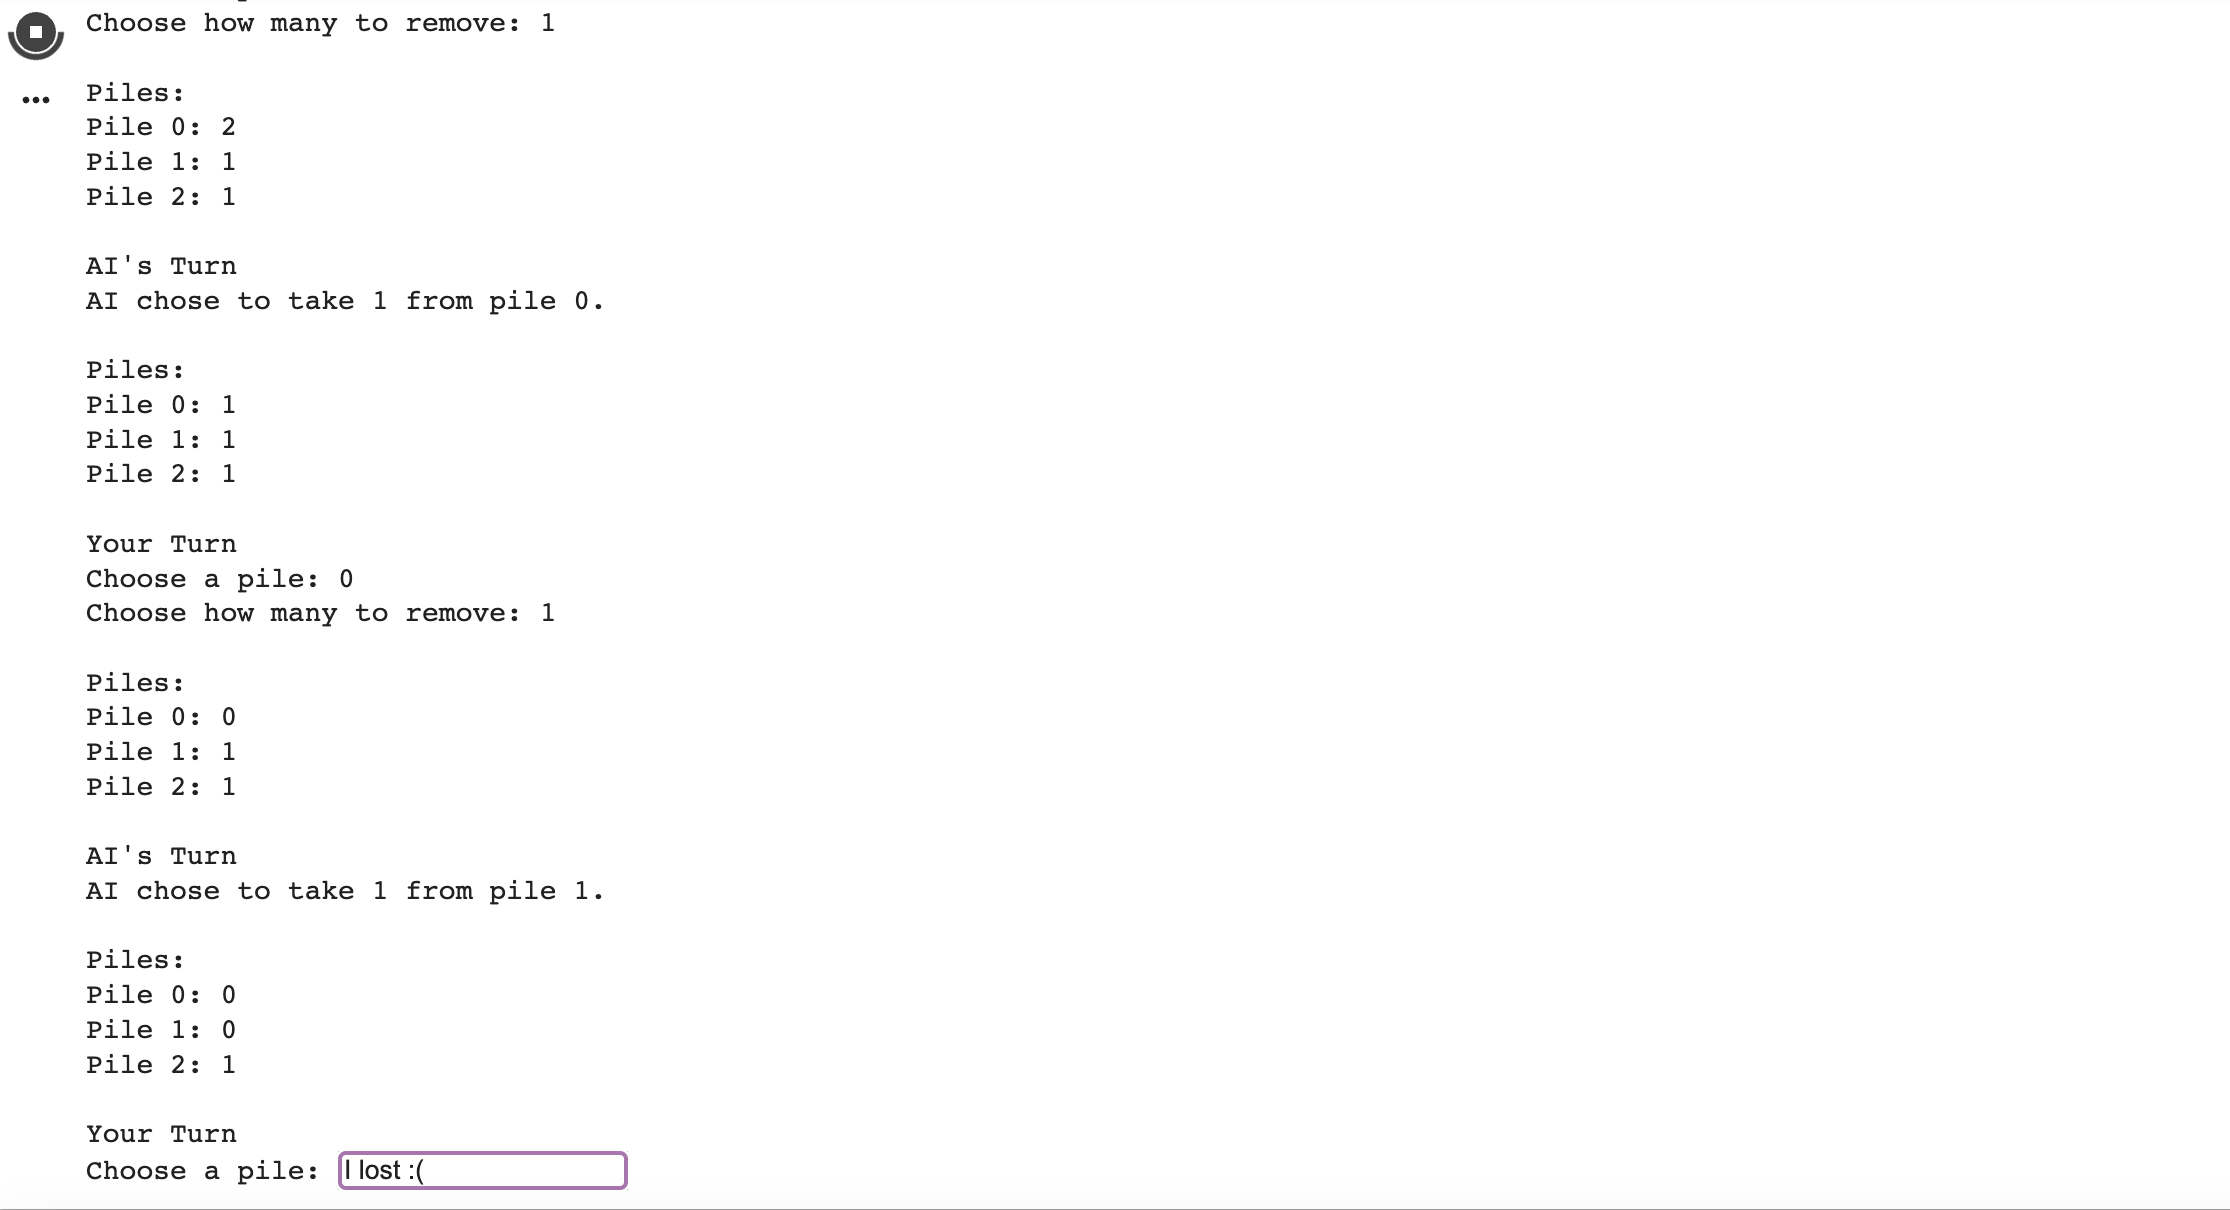
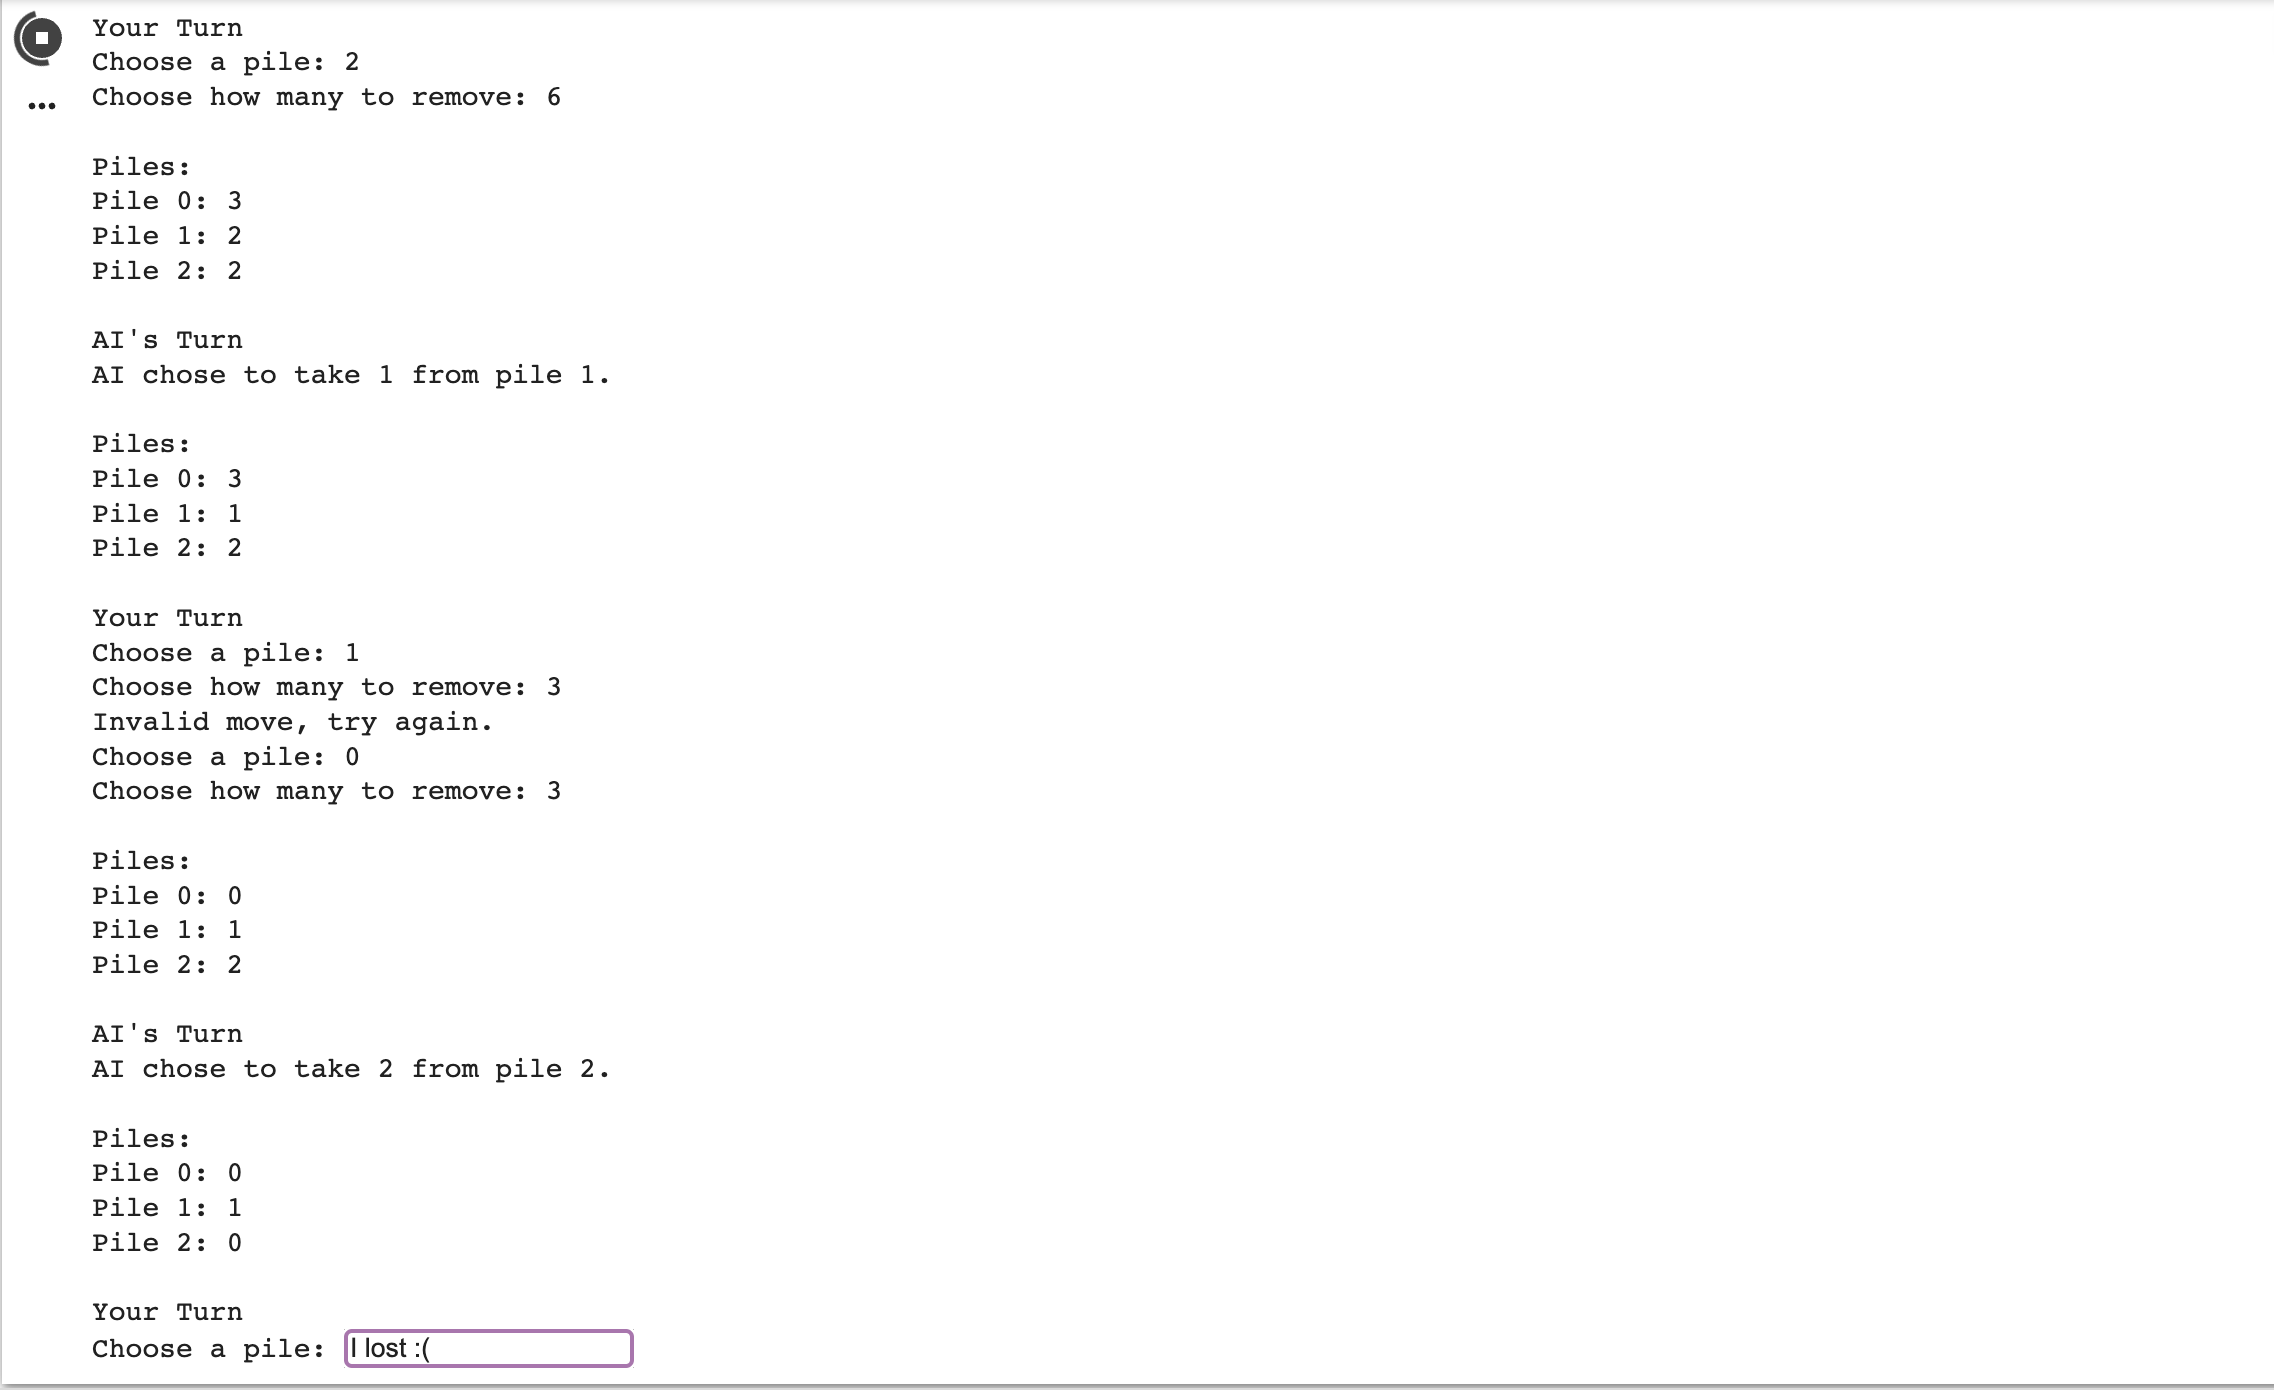
Show sample execution with different initialized piles

diff --git a/src/config.py b/src/config.py
@@ -3,4 +3,4 @@
 epochs = 700
 EPSILON = 0.15 # probability AI makes a random move the next round
 ALPHA = 0.5 # learning rate
-GAME_BOARD = [3,5,7] # index represents a pile and value at each index represents content
+GAME_BOARD = [5,7,9] # index represents a pile and value at each index represents content

diff --git a/README.md b/README.md
@@ -11,3 +11,5 @@ git clone https://github.com/4ndrelim/nim.git
 2. Run play.py
     - Play against AI by inputting the pile number and number of objects to remove.
 3. Adjust pre-defined hyperparams at config.py
+
+![nim execution](assets/execution.png)
